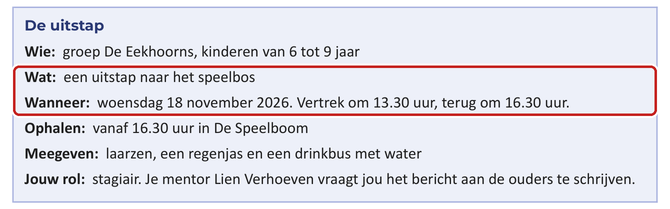
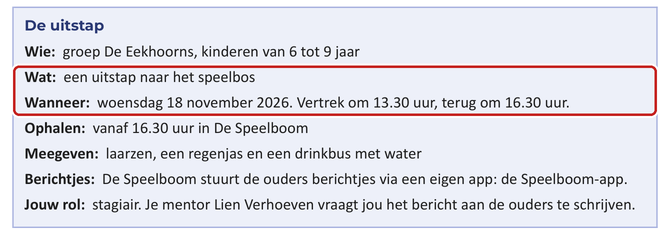
Speelboom-app: geen los 'app' meer, maar 'een berichtje in de Speelboom-app'

diff --git a/index.html b/index.html
@@ -129,11 +129,11 @@
               <p class="nodig-uitleg">Hier schrijf je je bericht. Dit lever je in.</p>
             </li>
           </ol>
-          <p class="nodig-noot">Het venster in je werkdocument lijkt op de Speelboom-app. Je verstuurt niets echt.</p>
+          <p class="nodig-noot">De Speelboom stuurt de ouders berichtjes via een eigen app: de Speelboom-app. Het venster in je werkdocument lijkt op die app. Je verstuurt niets echt.</p>
 
           <h2 class="sec">Na deze les kan je</h2>
           <ul class="doelen">
-            <li>kiezen of je een bericht stuurt, belt of het vertelt bij het afhalen;</li>
+            <li>kiezen of je een berichtje stuurt in de Speelboom-app, belt of het vertelt bij het afhalen;</li>
             <li>een kort, positief en beleefd bericht aan alle ouders schrijven;</li>
             <li>zo schrijven dat ook een ouder die weinig Nederlands leest, je bericht begrijpt.</li>
           </ul>
@@ -163,7 +163,7 @@
             <section class="t-card">
               <h3><svg class="ic" aria-hidden="true"><use href="#i-chat"/></svg>Welk kanaal?</h3>
               <table class="t-rows">
-                <tr><th>App</th><td>praktisch nieuws voor alle ouders, of een korte vraag van een ouder</td></tr>
+                <tr><th>Speelboom-app</th><td>een berichtje: praktisch nieuws voor alle ouders, of een korte vraag van een ouder</td></tr>
                 <tr><th>Bellen</th><td>de ouder moet meteen iets doen of beslissen</td></tr>
                 <tr><th>Gesprek</th><td>moeilijk of gevoelig nieuws, bij het afhalen</td></tr>
               </table>
@@ -238,7 +238,7 @@
             <section class="t-card wide">
               <h3><svg class="ic" aria-hidden="true"><use href="#i-chat"/></svg>Woorden</h3>
               <table class="t-rows">
-                <tr><th>kanaal</th><td>de weg waarlangs je bericht gaat: de app, de telefoon, een gesprek</td></tr>
+                <tr><th>kanaal</th><td>de weg waarlangs je bericht gaat: een berichtje in de Speelboom-app, de telefoon, een gesprek</td></tr>
                 <tr><th>register</th><td>hoe formeel je schrijft: <em>u</em> of <em>je</em>, je woorden, je zinnen</td></tr>
                 <tr><th>non-verbaal</th><td>wat je zegt zonder woorden. In een bericht: hoofdletters, uitroeptekens, emoji's</td></tr>
                 <tr><th>stagiair</th><td>wie stage loopt en leert op de werkplek</td></tr>
@@ -250,7 +250,7 @@
             <section class="t-card wide warn">
               <h3><svg class="ic" aria-hidden="true"><use href="#i-alert"/></svg>Veelgemaakte fouten</h3>
               <ul>
-                <li>Een ziek kind of een ruzie melden in de app in plaats van te bellen of te praten.</li>
+                <li>Een ziek kind of een ruzie melden met een berichtje in de Speelboom-app in plaats van te bellen of te praten.</li>
                 <li>Een ander kind bij naam in een bericht aan alle ouders.</li>
                 <li>Geen dag of geen uur, of <em>half vijf</em> in plaats van <em>16.30 uur</em>.</li>
                 <li><em>u</em>, <em>je</em> en <em>jullie</em> door elkaar; chattaal of dialect.</li>
@@ -299,15 +299,15 @@
       <article class="card">
         <header class="card-head"><div class="tags"><span class="tag tag-step">Stap 2</span><span class="tag tag-where"><img class="logo" src="assets/logos/docs.svg" alt=""> Werkdocument, deel 1</span></div><h2 id="h-2">Welk kanaal?</h2></header>
         <div class="card-body">
-          <p class="intro">Een bericht in de app is niet altijd de beste weg. Je kiest het kanaal volgens wat de ouder moet doen.</p>
-<div class="todo-box"><div class="todo-head"><h3><svg class="ic" aria-hidden="true"><use href="#i-list"/></svg> Wat moet je doen?</h3><div class="modus" role="group" aria-label="Hoe wil je de uitleg?"><button type="button" class="modus-btn" data-modus="stap" aria-pressed="true">Stap voor stap</button><button type="button" class="modus-btn" data-modus="kort" aria-pressed="false">Kort</button></div></div><ol class="doe"><li><details class="stapjes" open><summary><span class="doe-tekst">Bekijk <strong>deel 1</strong> van je werkdocument. Rij a is al ingevuld.</span><span class="stapjes-knop" aria-hidden="true"></span></summary><ol class="klein"><li><p>Scroll naar <strong>Deel 1</strong>. Rij a staat al ingevuld: zo kies je.</p><img class="mini" src="assets/stapjes/s2-deel1.png" alt="Deel 1 in het werkdocument. Rij a, al ingevuld, staat in een rood kader." loading="lazy"></li></ol></details></li><li><details class="stapjes" open><summary><span class="doe-tekst">Kies bij situatie b tot e: <strong>app</strong>, <strong>bellen</strong> of <strong>gesprek</strong>.</span><span class="stapjes-knop" aria-hidden="true"></span></summary><ol class="klein"><li><p>Lees situatie b. Zoek: moet de ouder meteen iets doen? Klik in het vak onder <em>App, bellen of gesprek?</em> en typ je keuze.</p><img class="mini" src="assets/stapjes/s2-kanaal-b.png" alt="Deel 1: het lege vak in rij b onder App, bellen of gesprek?, in een rood kader." loading="lazy"></li><li><p>Klik in het vak onder <em>Waarom?</em> en typ waarom.</p><img class="mini" src="assets/stapjes/s2-waarom-b.png" alt="Deel 1: het lege vak in rij b onder Waarom?, in een rood kader." loading="lazy"></li><li><p>Doe hetzelfde voor situatie c, d en e.<span class="sub">Bij e: kijk op het kaartje hieronder wat je met je eigen gsm doet.</span></p></li></ol></details></li></ol></div>
+          <p class="intro">Een berichtje in de Speelboom-app is niet altijd de beste weg. Je kiest het kanaal volgens wat de ouder moet doen.</p>
+<div class="todo-box"><div class="todo-head"><h3><svg class="ic" aria-hidden="true"><use href="#i-list"/></svg> Wat moet je doen?</h3><div class="modus" role="group" aria-label="Hoe wil je de uitleg?"><button type="button" class="modus-btn" data-modus="stap" aria-pressed="true">Stap voor stap</button><button type="button" class="modus-btn" data-modus="kort" aria-pressed="false">Kort</button></div></div><ol class="doe"><li><details class="stapjes" open><summary><span class="doe-tekst">Bekijk <strong>deel 1</strong> van je werkdocument. Rij a is al ingevuld.</span><span class="stapjes-knop" aria-hidden="true"></span></summary><ol class="klein"><li><p>Scroll naar <strong>Deel 1</strong>. Rij a staat al ingevuld: zo kies je.</p><img class="mini" src="assets/stapjes/s2-deel1.png" alt="Deel 1 in het werkdocument. Rij a, al ingevuld, staat in een rood kader." loading="lazy"></li></ol></details></li><li><details class="stapjes" open><summary><span class="doe-tekst">Kies bij situatie b tot e: <strong>Speelboom-app</strong>, <strong>bellen</strong> of <strong>gesprek</strong>.</span><span class="stapjes-knop" aria-hidden="true"></span></summary><ol class="klein"><li><p>Lees situatie b. Zoek: moet de ouder meteen iets doen? Klik in het vak onder <em>Speelboom-app, bellen of gesprek?</em> en typ je keuze.</p><img class="mini" src="assets/stapjes/s2-kanaal-b.png" alt="Deel 1: het lege vak in rij b onder Speelboom-app, bellen of gesprek?, in een rood kader." loading="lazy"></li><li><p>Klik in het vak onder <em>Waarom?</em> en typ waarom.</p><img class="mini" src="assets/stapjes/s2-waarom-b.png" alt="Deel 1: het lege vak in rij b onder Waarom?, in een rood kader." loading="lazy"></li><li><p>Doe hetzelfde voor situatie c, d en e.<span class="sub">Bij e: kijk op het kaartje hieronder wat je met je eigen gsm doet.</span></p></li></ol></details></li></ol></div>
           <div class="tip"><svg class="ic" aria-hidden="true"><use href="#i-bulb"/></svg><p><strong>Twijfel je tussen bellen en gesprek?</strong> Moet de ouder meteen iets doen of beslissen? Dan bel je. Is het moeilijk nieuws? Dan praat je met de ouder.</p></div>
           <div class="ccb kanaal">
-            <div class="ccb-vak"><span class="ccb-naam">App</span><span>Praktisch nieuws voor alle ouders, of een korte vraag van een ouder.</span></div>
+            <div class="ccb-vak"><span class="ccb-naam">Speelboom-app</span><span>Een berichtje: praktisch nieuws voor alle ouders, of een korte vraag van een ouder.</span></div>
             <div class="ccb-vak"><span class="ccb-naam">Bellen</span><span>De ouder moet meteen iets doen of beslissen.</span></div>
             <div class="ccb-vak"><span class="ccb-naam">Gesprek</span><span>Moeilijk of gevoelig nieuws. Bij het afhalen.</span></div>
           </div>
-          <p class="nodig-noot">Je geeft je eigen gsm-nummer niet. Je gebruikt het kanaal van De Speelboom, niet WhatsApp. Voorbeeld, rij a: alle ouders moeten laarzen meegeven. Dat is <strong>app</strong>, want het is praktisch nieuws voor alle ouders.</p>
+          <p class="nodig-noot">Je geeft je eigen gsm-nummer niet. Je gebruikt het kanaal van De Speelboom, niet WhatsApp. Voorbeeld, rij a: alle ouders moeten laarzen meegeven. Dat is <strong>Speelboom-app</strong>: je stuurt een berichtje, want het is praktisch nieuws voor alle ouders.</p>
         </div>
         <footer class="card-nav"><button class="btn" type="button" data-goto="1"><svg class="ic" aria-hidden="true"><use href="#i-left"/></svg> Stap 1</button><button class="btn btn-primary" type="button" data-goto="3">Stap 3 <svg class="ic" aria-hidden="true"><use href="#i-right"/></svg></button></footer>
       </article>
@@ -383,7 +383,7 @@
         <header class="card-head met-mascotte"><div><div class="tags"><span class="tag tag-step">Stap 6</span><span class="tag tag-where"><svg class="ic" aria-hidden="true"><use href="#i-send"/></svg> Inleveren</span><span class="tag tag-where"><img class="logo" src="assets/logos/docs.svg" alt=""> Werkdocument, deel 5</span></div><h2 id="h-6">Nalezen en inleveren</h2></div><img class="mascotte-kop" src="assets/mascotte/dalton_inleveren.webp" alt="" width="120" height="120"></header>
         <div class="card-body">
           <p class="intro">Bijna klaar. Je leest je bericht na met de criteria, en je levert in.</p>
-<div class="todo-box"><div class="todo-head"><h3><svg class="ic" aria-hidden="true"><use href="#i-list"/></svg> Wat moet je doen?</h3><div class="modus" role="group" aria-label="Hoe wil je de uitleg?"><button type="button" class="modus-btn" data-modus="stap" aria-pressed="true">Stap voor stap</button><button type="button" class="modus-btn" data-modus="kort" aria-pressed="false">Kort</button></div></div><ol class="doe"><li><details class="stapjes" open><summary><span class="doe-tekst">Kruis in <strong>deel 5</strong> aan wat klopt.</span><span class="stapjes-knop" aria-hidden="true"></span></summary><ol class="klein"><li><p>Scroll naar <strong>Deel 5</strong>. Lees je bericht in deel 3 na, met de zinnen in deel 5.</p><img class="mini" src="assets/stapjes/s6-deel5.png" alt="Deel 5 Nalezen: een tabel. Links een leeg vak, in het midden wat moet kloppen, rechts de punten." loading="lazy"></li><li><p>Klopt een zin? Klik in het vak ervoor en typ <strong>x</strong>.</p><img class="mini" src="assets/stapjes/s6-kruis.png" alt="Deel 5: in het vak voor de eerste zin staat nu een x, in een rood kader." loading="lazy"></li><li><p>Klopt iets nog niet? Verbeter eerst je bericht.</p></li></ol></details></li><li><details class="stapjes" open><summary><span class="doe-tekst">Beantwoord de slotvraag.</span><span class="stapjes-knop" aria-hidden="true"></span></summary><ol class="klein"><li><p>Klik in het vak onder <em>Waarom vertel je moeilijk nieuws liever niet in de app?</em> en typ je antwoord.</p><img class="mini" src="assets/stapjes/s6-slotvraag.png" alt="Deel 5: de slotvraag met het vak eronder, in een rood kader." loading="lazy"></li></ol></details></li><li><details class="stapjes" open><summary><span class="doe-tekst">Lever in.</span><span class="stapjes-knop" aria-hidden="true"></span></summary><ol class="klein"><li><p>Klik bovenaan op het tabblad <strong class="met-logo"><img class="logo" src="assets/logos/classroom.svg" alt="">Google Classroom</strong>.</p><div class="teken-tabs" role="img" aria-label="Tekening van de tabbladen bovenaan in Chrome. Het tabblad Google Classroom staat in een rood kader."><span class="tt-tab wijs"><img class="logo" src="assets/logos/classroom.svg" alt="">Google Classroom</span><span class="tt-tab"><img class="logo" src="assets/logos/lespagina.webp" alt="">Lespagina · Les 4</span><span class="tt-tab actief"><img class="logo" src="assets/logos/docs.svg" alt="">Ouderbericht</span></div></li><li><p>Zoek rechts, bij <strong>Jouw werk</strong>, de knop <span class="ui">Inleveren</span>. Klik erop en bevestig.</p><div class="mock mock-opdracht mini-mock" role="img" aria-label="Tekening van de opdracht. Bij Jouw werk staat de knop Inleveren in een rood kader."><div class="mo-midden"><div class="mo-titel"><img class="logo" src="assets/logos/classroom.svg" alt="">Les 4 — Berichten aan ouders</div><div class="mo-chip"><img class="logo" src="assets/logos/lespagina.webp" alt=""><span>Lespagina</span></div><div class="mo-chip ai-hulp"><svg class="ic" aria-hidden="true"><use href="#i-spark"/></svg><span>AI-hulp</span></div></div><div class="mo-werk"><div class="mo-werk-kop">Jouw werk</div><div class="mo-chip"><img class="logo" src="assets/logos/docs.svg" alt=""><span>Ouderbericht</span></div><div class="mo-knop wijs">Inleveren</div></div></div></li></ol></details></li></ol></div>
+<div class="todo-box"><div class="todo-head"><h3><svg class="ic" aria-hidden="true"><use href="#i-list"/></svg> Wat moet je doen?</h3><div class="modus" role="group" aria-label="Hoe wil je de uitleg?"><button type="button" class="modus-btn" data-modus="stap" aria-pressed="true">Stap voor stap</button><button type="button" class="modus-btn" data-modus="kort" aria-pressed="false">Kort</button></div></div><ol class="doe"><li><details class="stapjes" open><summary><span class="doe-tekst">Kruis in <strong>deel 5</strong> aan wat klopt.</span><span class="stapjes-knop" aria-hidden="true"></span></summary><ol class="klein"><li><p>Scroll naar <strong>Deel 5</strong>. Lees je bericht in deel 3 na, met de zinnen in deel 5.</p><img class="mini" src="assets/stapjes/s6-deel5.png" alt="Deel 5 Nalezen: een tabel. Links een leeg vak, in het midden wat moet kloppen, rechts de punten." loading="lazy"></li><li><p>Klopt een zin? Klik in het vak ervoor en typ <strong>x</strong>.</p><img class="mini" src="assets/stapjes/s6-kruis.png" alt="Deel 5: in het vak voor de eerste zin staat nu een x, in een rood kader." loading="lazy"></li><li><p>Klopt iets nog niet? Verbeter eerst je bericht.</p></li></ol></details></li><li><details class="stapjes" open><summary><span class="doe-tekst">Beantwoord de slotvraag.</span><span class="stapjes-knop" aria-hidden="true"></span></summary><ol class="klein"><li><p>Klik in het vak onder <em>Waarom vertel je moeilijk nieuws liever niet met een berichtje in de Speelboom-app?</em> en typ je antwoord.</p><img class="mini" src="assets/stapjes/s6-slotvraag.png" alt="Deel 5: de slotvraag met het vak eronder, in een rood kader." loading="lazy"></li></ol></details></li><li><details class="stapjes" open><summary><span class="doe-tekst">Lever in.</span><span class="stapjes-knop" aria-hidden="true"></span></summary><ol class="klein"><li><p>Klik bovenaan op het tabblad <strong class="met-logo"><img class="logo" src="assets/logos/classroom.svg" alt="">Google Classroom</strong>.</p><div class="teken-tabs" role="img" aria-label="Tekening van de tabbladen bovenaan in Chrome. Het tabblad Google Classroom staat in een rood kader."><span class="tt-tab wijs"><img class="logo" src="assets/logos/classroom.svg" alt="">Google Classroom</span><span class="tt-tab"><img class="logo" src="assets/logos/lespagina.webp" alt="">Lespagina · Les 4</span><span class="tt-tab actief"><img class="logo" src="assets/logos/docs.svg" alt="">Ouderbericht</span></div></li><li><p>Zoek rechts, bij <strong>Jouw werk</strong>, de knop <span class="ui">Inleveren</span>. Klik erop en bevestig.</p><div class="mock mock-opdracht mini-mock" role="img" aria-label="Tekening van de opdracht. Bij Jouw werk staat de knop Inleveren in een rood kader."><div class="mo-midden"><div class="mo-titel"><img class="logo" src="assets/logos/classroom.svg" alt="">Les 4 — Berichten aan ouders</div><div class="mo-chip"><img class="logo" src="assets/logos/lespagina.webp" alt=""><span>Lespagina</span></div><div class="mo-chip ai-hulp"><svg class="ic" aria-hidden="true"><use href="#i-spark"/></svg><span>AI-hulp</span></div></div><div class="mo-werk"><div class="mo-werk-kop">Jouw werk</div><div class="mo-chip"><img class="logo" src="assets/logos/docs.svg" alt=""><span>Ouderbericht</span></div><div class="mo-knop wijs">Inleveren</div></div></div></li></ol></details></li></ol></div>
           <div class="tip"><svg class="ic" aria-hidden="true"><use href="#i-bulb"/></svg><p><strong>Niet klaar om 16.15 uur?</strong> Werk verder tot vrijdag 23 oktober 2026, 20.00 uur. Klik op <span class="ui">Inleveren</span> als je klaar bent.</p></div>
           <h3 class="vert-kop">Hier lever je in</h3>
           <div class="mock mock-opdracht" role="img" aria-label="Tekening van de opdracht in Google Classroom. Rechts, bij Jouw werk, staat de knop Inleveren in een rood kader."><div class="mo-midden"><div class="mo-titel"><img class="logo" src="assets/logos/classroom.svg" alt="">Les 4 — Berichten aan ouders</div><div class="mo-chip"><img class="logo" src="assets/logos/lespagina.webp" alt=""><span>Lespagina</span></div><div class="mo-chip ai-hulp"><svg class="ic" aria-hidden="true"><use href="#i-spark"/></svg><span>AI-hulp</span></div></div><div class="mo-werk"><div class="mo-werk-kop">Jouw werk</div><div class="mo-chip"><img class="logo" src="assets/logos/docs.svg" alt=""><span>Ouderbericht</span></div><div class="mo-knop wijs">Inleveren</div></div></div>
@@ -396,7 +396,7 @@
       <article class="card">
         <header class="card-head"><div class="tags"><span class="tag tag-extra">Extra · niet verplicht</span></div><h2 id="h-extra">Antwoord aan een mama</h2></header>
         <div class="card-body">
-          <p class="intro">Begin hier pas nadat je hebt ingeleverd. Het telt niet mee. Een mama antwoordt in de app.</p>
+          <p class="intro">Begin hier pas nadat je hebt ingeleverd. Het telt niet mee. Een mama antwoordt met een berichtje in de Speelboom-app.</p>
           <blockquote class="vert-blok nl"><span class="vert-taal">De mama schrijft</span><p class="vert-zin">Mijn zoon heeft geen laarzen. Mag hij met sportschoenen komen?</p></blockquote>
 <div class="todo-box"><div class="todo-head"><h3><svg class="ic" aria-hidden="true"><use href="#i-list"/></svg> Wat moet je doen?</h3><div class="modus" role="group" aria-label="Hoe wil je de uitleg?"><button type="button" class="modus-btn" data-modus="stap" aria-pressed="true">Stap voor stap</button><button type="button" class="modus-btn" data-modus="kort" aria-pressed="false">Kort</button></div></div><ol class="doe"><li><details class="stapjes" open><summary><span class="doe-tekst">Typ in het vak onder <strong>Extra</strong> een kort, vriendelijk antwoord.</span><span class="stapjes-knop" aria-hidden="true"></span></summary><ol class="klein"><li><p>Scroll naar onder <strong>Extra</strong>. Klik in het vak en typ je antwoord.</p><img class="mini" src="assets/stapjes/s7-extra.png" alt="Het deel Extra met de vraag en het vak voor je antwoord, in een rood kader." loading="lazy"></li></ol></details></li><li><details class="stapjes" open><summary><span class="doe-tekst">Lever opnieuw in.</span><span class="stapjes-knop" aria-hidden="true"></span></summary><ol class="klein"><li><p>Klik bovenaan op het tabblad Google Classroom. Klik rechts, bij <strong>Jouw werk</strong>, op <span class="ui">Inleveren ongedaan maken</span>.</p></li><li><p>Klik daarna opnieuw op <span class="ui">Inleveren</span> en bevestig.</p></li></ol></details></li></ol></div>
         </div>
@@ -419,7 +419,7 @@
         <label class="cl-item"><input type="checkbox" id="c1c"><span>Het kader De uitstap gelezen</span></label>
       </div>
       <div class="cl-group" data-step="2"><h3>2 · Welk kanaal?</h3>
-        <label class="cl-item"><input type="checkbox" id="c2a"><span>Situatie b tot e: app, bellen of gesprek</span></label>
+        <label class="cl-item"><input type="checkbox" id="c2a"><span>Situatie b tot e: Speelboom-app, bellen of gesprek</span></label>
         <label class="cl-item"><input type="checkbox" id="c2b"><span>Bij elke situatie een reden</span></label>
       </div>
       <div class="cl-group" data-step="3"><h3>3 · Wat is er mis?</h3>

diff --git a/presentatie.html b/presentatie.html
@@ -93,7 +93,7 @@
       <div class="opt right"><span class="n">C</span>In Bcc</div>
     </div>
   </div>
-  <p class="answer">In Bcc ziet niemand het adres van de andere ouders. Vandaag: een bericht aan alle ouders in de app.</p>
+  <p class="answer">In Bcc ziet niemand het adres van de andere ouders. Vandaag: een berichtje aan alle ouders in de Speelboom-app.</p>
   <template class="note">
     <p><strong>Lesstart (3'), ophalen uit les 3.</strong> Iedereen antwoordt tegelijk met vingers: 1, 2 of 3 vingers voor A, B of C. Druk daarna op → voor het antwoord.</p>
     <p>Wie A of B kiest: <em>"Wie ziet de adressen dan allemaal?"</em></p>
@@ -110,7 +110,7 @@
     <li>Je schrijft een <strong>kort, positief en beleefd</strong> bericht aan alle ouders van een groep.</li>
     <li>Je schrijft zo <strong>eenvoudig</strong> dat ook een ouder die weinig Nederlands leest, je begrijpt.</li>
   </ul>
-  <p class="klok" style="margin-top:8px">Er wordt niets echt verstuurd: je schrijft in je werkdocument, in een venster dat lijkt op de Speelboom-app.</p>
+  <p class="klok" style="margin-top:8px">Er wordt niets echt verstuurd: je schrijft in je werkdocument, in een venster dat lijkt op de Speelboom-app, de app waarmee De Speelboom de ouders berichtjes stuurt.</p>
   <template class="note"><p><strong>Ik doe, 0'30".</strong> Lesdoel voorlezen, niet toelichten.</p></template>
 </section>
 
@@ -148,13 +148,13 @@
   <p class="kicker">Ik doe · dia 3 van 4 · demo</p>
   <h2>Welk kanaal?</h2>
   <div class="kanalen">
-    <div class="panel"><b>App</b>Praktisch nieuws voor alle ouders, of een korte vraag.</div>
+    <div class="panel"><b>Speelboom-app</b>Een berichtje: praktisch nieuws voor alle ouders, of een korte vraag.</div>
     <div class="panel"><b>Bellen</b>De ouder moet meteen iets doen of beslissen.</div>
     <div class="panel"><b>Gesprek</b>Moeilijk of gevoelig nieuws. Bij het afhalen.</div>
   </div>
   <p class="reveal-item" style="margin-top:22px;font-size:27px"><strong>Niet je eigen gsm of WhatsApp.</strong> Je gebruikt het kanaal van De Speelboom.</p>
   <template class="note">
-    <p><strong>Ik doe, 2'.</strong> Hardop denkend bij situatie a van deel 1: <em>"Alle ouders moeten laarzen meegeven. Moet iemand meteen iets doen? Nee. Het is praktisch nieuws voor iedereen: de app."</em></p>
+    <p><strong>Ik doe, 2'.</strong> Hardop denkend bij situatie a van deel 1: <em>"Alle ouders moeten laarzen meegeven. Moet iemand meteen iets doen? Nee. Het is praktisch nieuws voor iedereen: een berichtje in de Speelboom-app."</em></p>
   </template>
 </section>
 
@@ -183,7 +183,7 @@
   <h2>Een kind heeft 39 °C koorts. Het moet naar huis.</h2>
   <div class="qcol">
     <div class="opts">
-      <div class="opt"><span class="n">A</span>Een bericht in de app</div>
+      <div class="opt"><span class="n">A</span>Een berichtje in de Speelboom-app</div>
       <div class="opt right"><span class="n">B</span>Bellen</div>
       <div class="opt"><span class="n">C</span>Het vertellen bij het afhalen</div>
     </div>
@@ -247,7 +247,7 @@
   <img class="mascotte" src="assets/mascotte/dalton_hulp.webp" alt="" width="240" height="240">
   <p class="kicker">Afsluiten · laatste minuut</p>
   <h2>Moeilijk nieuws</h2>
-  <p style="font-size:34px;font-weight:700;margin-top:10px">Waarom vertel je moeilijk nieuws liever niet in de app?</p>
+  <p style="font-size:34px;font-weight:700;margin-top:10px">Waarom vertel je moeilijk nieuws liever niet met een berichtje in de Speelboom-app?</p>
   <p class="answer" style="font-size:30px">In een bericht zie je geen gezicht en hoor je geen stem. De ouder kan niet meteen iets vragen, en het komt sneller verkeerd over.</p>
   <p style="margin-top:40px">Volgende les, <strong>maandag 26 oktober</strong>: wat mag je delen?</p>
   <template class="note">

diff --git a/werkdocument/maak_werkdocumenten.py b/werkdocument/maak_werkdocumenten.py
@@ -37,17 +37,18 @@ def ouderbericht():
         ("Wanneer:", "woensdag 18 november 2026. Vertrek om 13.30 uur, terug om 16.30 uur."),
         ("Ophalen:", "vanaf 16.30 uur in De Speelboom"),
         ("Meegeven:", "laarzen, een regenjas en een drinkbus met water"),
+        ("Berichtjes:", "De Speelboom stuurt de ouders berichtjes via een eigen app: de Speelboom-app."),
         ("Jouw rol:", "stagiair. Je mentor Lien Verhoeven vraagt jou het bericht aan de ouders te schrijven."),
     ])
 
     # ---- Deel 1
     deel(doc, 1, "Welk kanaal?")
-    tabel(doc, ["Situatie", "App, bellen of gesprek?", "Waarom?"], [
+    tabel(doc, ["Situatie", "Speelboom-app, bellen of gesprek?", "Waarom?"], [
         ("a.  Woensdag 18 november gaan De Eekhoorns naar het speelbos. Alle ouders moeten laarzen meegeven.",
-         "app", "praktisch nieuws voor alle ouders"),
+         "Speelboom-app", "praktisch nieuws voor alle ouders"),
         ("b.  Om 15 uur heeft een kind 39 °C koorts. Het moet naar huis.", "", ""),
         ("c.  Een kind heeft vandaag een ander kind gebeten. Je wil dat met de ouders bespreken.", "", ""),
-        ("d.  Een papa vraagt in de app of de muts van zijn dochter nog in De Speelboom ligt.", "", ""),
+        ("d.  Een papa vraagt met een berichtje in de Speelboom-app of de muts van zijn dochter nog in De Speelboom ligt.", "", ""),
         ("e.  Een mama vraagt je gsm-nummer, zodat ze je via WhatsApp kan sturen.", "", ""),
     ], [7.4, 3.4, BREEDTE - 7.4 - 3.4], invul=(1, 2), rijhoogte=1.5, voorbeeld_rij=1)
 
@@ -79,7 +80,7 @@ def ouderbericht():
     # ---- Deel 5: nalezen = de criteria van de beoordeling (lesvoorbereiding § 22)
     deel(doc, 5, "Nalezen")
     controletabel(doc, [
-        ("Deel 1: bij b tot e staat *app*, *bellen* of *gesprek*, met een reden.", 4),
+        ("Deel 1: bij b tot e staat *Speelboom-app*, *bellen* of *gesprek*, met een reden.", 4),
         ("Deel 2: ik vond vier fouten en schreef erbij hoe het beter kan.", 2),
         ("Deel 3: bij Aan staat *Alle ouders van De Eekhoorns*, en ik schreef een duidelijke titel.", 2),
         ("Deel 3: mijn bericht zegt wat, welke dag en hoe laat (in cijfers), en wat de ouders meegeven.", 4),
@@ -88,12 +89,12 @@ def ouderbericht():
         ("Deel 3: geen hoofdletters, chattaal, dialect of emoji's, en geen andere kinderen bij naam.", 2),
         ("Deel 4: wat er misging, de zin in eenvoudige taal en twee passende pictogrammen.", 2),
     ])
-    vraag(doc, "Waarom vertel je moeilijk nieuws liever niet in de app?")
+    vraag(doc, "Waarom vertel je moeilijk nieuws liever niet met een berichtje in de Speelboom-app?")
     antwoordvak(doc, 1.8)
 
     # ---- Extra
     deel(doc, None, "Extra — niet verplicht")
-    vraag(doc, "Een mama antwoordt in de app: “Mijn zoon heeft geen laarzen. Mag hij met sportschoenen komen?” "
+    vraag(doc, "Een mama antwoordt met een berichtje in de Speelboom-app: “Mijn zoon heeft geen laarzen. Mag hij met sportschoenen komen?” "
                "Schrijf een kort, vriendelijk antwoord.")
     antwoordvak(doc, 2.4)
 

diff --git a/lesvoorbereiding.md b/lesvoorbereiding.md
@@ -101,7 +101,7 @@ Letterlijk uit `Leerplannen/Leerplannen_2de_graad_TOINFO_MW_dubbele_finaliteit.m
 
 | De leerling … | Bloom | Kennisdimensie |
 |---|---|---|
-| kiest bij een situatie in de opvang tussen de app, bellen en een gesprek, en zegt waarom | toepassen | conceptueel |
+| kiest bij een situatie in de opvang tussen een berichtje in de Speelboom-app, bellen en een gesprek, en zegt waarom | toepassen | conceptueel |
 | benoemt in een zwak app-bericht wat bij ouders verkeerd overkomt (hoofdletters, emoji, dialect, negatief, een ander kind bij naam) | analyseren | conceptueel |
 | schrijft een kort, positief en beleefd bericht aan alle ouders van een groep, met wat, wanneer en wat ze meegeven | toepassen | procedureel |
 | herschrijft een zin in eenvoudige taal en legt uit waarom een vertaalmachine die beter vertaalt | begrijpen / toepassen | conceptueel |
@@ -168,12 +168,12 @@ label; zonder knop *Verzenden*; op een eigen bladzijde. (Werkt het goed, dan hoo
 - **Kader *De uitstap*** (§ 4): wie (groep De Eekhoorns, 6 tot 9 jaar), wat (naar het speelbos), wanneer
   (woensdag 18 november 2026, vertrek 13.30 uur, terug 16.30 uur), ophalen (vanaf 16.30 uur in De Speelboom),
   meegeven (laarzen, regenjas, drinkbus met water), jouw rol (stagiair, mentor Lien Verhoeven).
-- **Deel 1 — Welk kanaal?** Tabel *Situatie · App, bellen of gesprek? · Waarom?*; rij a is ingevuld (grijs).
+- **Deel 1 — Welk kanaal?** Tabel *Situatie · Speelboom-app, bellen of gesprek? · Waarom?*; rij a is ingevuld (grijs).
   - a. Woensdag 18 november gaan De Eekhoorns naar het speelbos. Alle ouders moeten laarzen meegeven.
-    → **app** · *praktisch nieuws voor alle ouders* (ingevuld)
+    → **Speelboom-app** · *praktisch nieuws voor alle ouders* (ingevuld)
   - b. Om 15 uur heeft een kind 39 °C koorts. Het moet naar huis.
   - c. Een kind heeft vandaag een ander kind gebeten. Je wil dat met de ouders bespreken.
-  - d. Een papa vraagt in de app of de muts van zijn dochter nog in De Speelboom ligt.
+  - d. Een papa vraagt met een berichtje in de Speelboom-app of de muts van zijn dochter nog in De Speelboom ligt.
   - e. Een mama vraagt je gsm-nummer, zodat ze je via WhatsApp kan sturen.
 - **Deel 2 — Wat is er mis met het bericht van Kobe?** Tabel *Wat is er mis? · Hoe kan het beter?*, vijf rijen;
   rij 1 is ingevuld (grijs): *Alles in hoofdletters en drie uitroeptekens: dat leest als roepen.* · *Begin met
@@ -186,15 +186,15 @@ label; zonder knop *Verzenden*; op een eigen bladzijde. (Werkt het goed, dan hoo
   letters.* (De zinnen en de pictogrammen A–F staan op de lespagina; in de tabel mag Kobes tweede zin als kort
   citaat staan.)
 - **Deel 5 — Nalezen.** De criteria van § 22 als `controletabel` (de leerling typt een x, de leraar zet de
-  punten), en de slotvraag: *Waarom vertel je moeilijk nieuws liever niet in de app?*
-- **Extra — niet verplicht**: *Een mama antwoordt in de app: "Mijn zoon heeft geen laarzen. Mag hij met
+  punten), en de slotvraag: *Waarom vertel je moeilijk nieuws liever niet met een berichtje in de Speelboom-app?*
+- **Extra — niet verplicht**: *Een mama antwoordt met een berichtje in de Speelboom-app: "Mijn zoon heeft geen laarzen. Mag hij met
   sportschoenen komen?" Schrijf een kort, vriendelijk antwoord.*
 
 **Verwachte antwoorden** (ook voor de verbetersleutel in de README)
 
 - Deel 1: b **bellen** (de ouder moet meteen iets doen; een bericht wordt misschien te laat gelezen) · c
   **gesprek** bij het afhalen (bellen mag ook): gevoelig, de ouder moet je kunnen horen en zien en iets kunnen
-  vragen · d **app**: een korte, praktische vraag, antwoord in de app · e **app van De Speelboom**: als
+  vragen · d **Speelboom-app**: een korte, praktische vraag, antwoord met een berichtje · e **Speelboom-app**: als
   stagiair geef je je eigen gsm-nummer niet; berichten gaan via de opvang.
 - Deel 2, zes mogelijke fouten (vier zijn genoeg): hoofdletters en *!!!* (ingevuld) · geen titel en geen naam:
   de ouders weten niet waarover het gaat en wie het stuurt · negatief (*anders zijn de kleren vuil en da is
@@ -247,7 +247,7 @@ opvang komen.* ③ *Geef een knuffel mee: we lezen samen een verhaal.* ④ *De k
 | Stap | Titel | Min. | Werkdocument | Wat op de lespagina |
 |---|---|---|---|---|
 | 1 | Start | 5 | kader *De uitstap* | quiz *Weet je het nog?*; het werkdocument openen in een tweede tabblad; het kader lezen met een doel: *Waar gaan De Eekhoorns naartoe, en wanneer?* |
-| 2 | Welk kanaal? | 8 | deel 1 | kaartje *app · bellen · gesprek · niet je eigen gsm*, met rij a als voorbeeld |
+| 2 | Welk kanaal? | 8 | deel 1 | kaartje *Speelboom-app · bellen · gesprek · niet je eigen gsm*, met rij a als voorbeeld |
 | 3 | Wat is er mis? | 8 | deel 2 | het bericht van Kobe in een tekening van de Speelboom-app; leesdoel: *Zoek vier dingen die bij een ouder verkeerd overkomen* |
 | 4 | Jouw bericht | 15 | deel 3 | het bericht van Lien met de vijf delen; het bouwplan; *jullie*, het uur in cijfers |
 | 5 | Voor elke ouder | 7 | deel 4 | de vertalingen van Kobes zinnen (§ *Bronnenonderzoek*, proef met Google Vertalen); de pictogrammen A–F; na het invullen een knop *Kijk na* die de vertaling van de eenvoudige zin toont |
@@ -292,7 +292,7 @@ Op 20 punten, beoordeeld op het werkdocument (vooral deel 3, het eigen bericht):
 | Deel 3: geen hoofdletters, chattaal, dialect of emoji's, en geen andere kinderen bij naam | 2 |
 | Deel 4: wat er misging, de zin in eenvoudige taal en twee passende pictogrammen | 2 |
 
-**Essentiële fouten** (altijd feedback): bij koorts een bericht in de app in plaats van bellen · andere kinderen
+**Essentiële fouten** (altijd feedback): bij koorts een berichtje in de Speelboom-app in plaats van bellen · andere kinderen
 bij naam in een bericht aan alle ouders · geen dag of geen uur · hoofdletters, chattaal of emoji's · geen naam
 onder het bericht.
 

diff --git a/README.md b/README.md
@@ -172,7 +172,7 @@ Er is geen les in het lokaal. Dit is wat een leerling thuis doet (50 minuten, vo
 | Stap | Titel | Min. | Werkdocument | Wat gebeurt er |
 |---|---|---|---|---|
 | 1 | Start | 5 | kader *De uitstap* | quiz *Weet je het nog?* (3 vragen, direct uitleg), werkdocument openen, kader lezen met een doel |
-| 2 | Welk kanaal? | 8 | deel 1 | app, bellen of gesprek bij vier situaties, met een reden (rij a is ingevuld) |
+| 2 | Welk kanaal? | 8 | deel 1 | Speelboom-app, bellen of gesprek bij vier situaties, met een reden (rij a is ingevuld) |
 | 3 | Wat is er mis? | 8 | deel 2 | vier fouten in het bericht van Kobe (rij 1 is ingevuld) |
 | 4 | Jouw bericht | 15 | deel 3 | het bericht van Lien als voorbeeld; eigen bericht in het venster van de Speelboom-app |
 | 5 | Voor elke ouder | 7 | deel 4 | vertalingen lezen, zin in eenvoudige taal, twee pictogrammen, *Kijk na* |
@@ -186,7 +186,7 @@ als privéreactie. In de AI-hulp zie je wie een gesprek begon (niet wat gevraagd
 
 - **Deel 1** (4 punten): b **bellen** (de ouder moet meteen iets doen; een bericht wordt misschien te laat
   gelezen) · c **gesprek** bij het afhalen (bellen mag ook): gevoelig, de ouder moet je kunnen horen en zien en iets
-  kunnen vragen · d **app**: een korte, praktische vraag, antwoord in de app · e **app van De Speelboom**: als
+  kunnen vragen · d **Speelboom-app**: een korte, praktische vraag, antwoord met een berichtje · e **Speelboom-app**: als
   stagiair geef je je eigen gsm-nummer niet; berichten gaan via de opvang.
 - **Deel 2** (2 punten), zes mogelijke fouten (vier zijn genoeg): hoofdletters en *!!!* (ingevuld) · geen titel en
   geen naam: de ouders weten niet waarover het gaat en wie het stuurt · negatief (*anders zijn de kleren vuil en da
@@ -210,7 +210,7 @@ hoofdletters/chattaal/dialect/emoji en geen ander kind 2 · deel 4: 2 (`lesvoorb
 
 ### Essentiële fouten — geef hier altijd feedback op
 
-- Bij koorts een bericht in de app in plaats van bellen.
+- Bij koorts een berichtje in de Speelboom-app in plaats van bellen.
 - Andere kinderen bij naam in een bericht aan alle ouders.
 - Geen dag of geen uur.
 - Hoofdletters, chattaal of emoji's.
